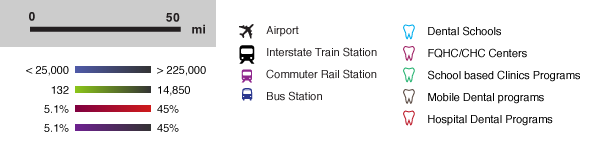
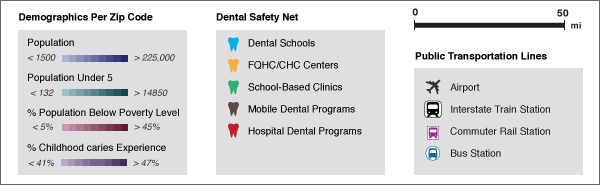
new legend

diff --git a/templates/careermapblock/careermapblock_css.html b/templates/careermapblock/careermapblock_css.html
@@ -155,10 +155,10 @@ div#legend_container{
 }
 
 div#legend_container.showing_legend{
-    height: 175px;
+    height: 185px;
     background-image:url('/site_media/img/legend.png');
     background-repeat:   no-repeat;
-    background-position: center,center;    
+    background-position: 0 18px;    
 
 }
 
